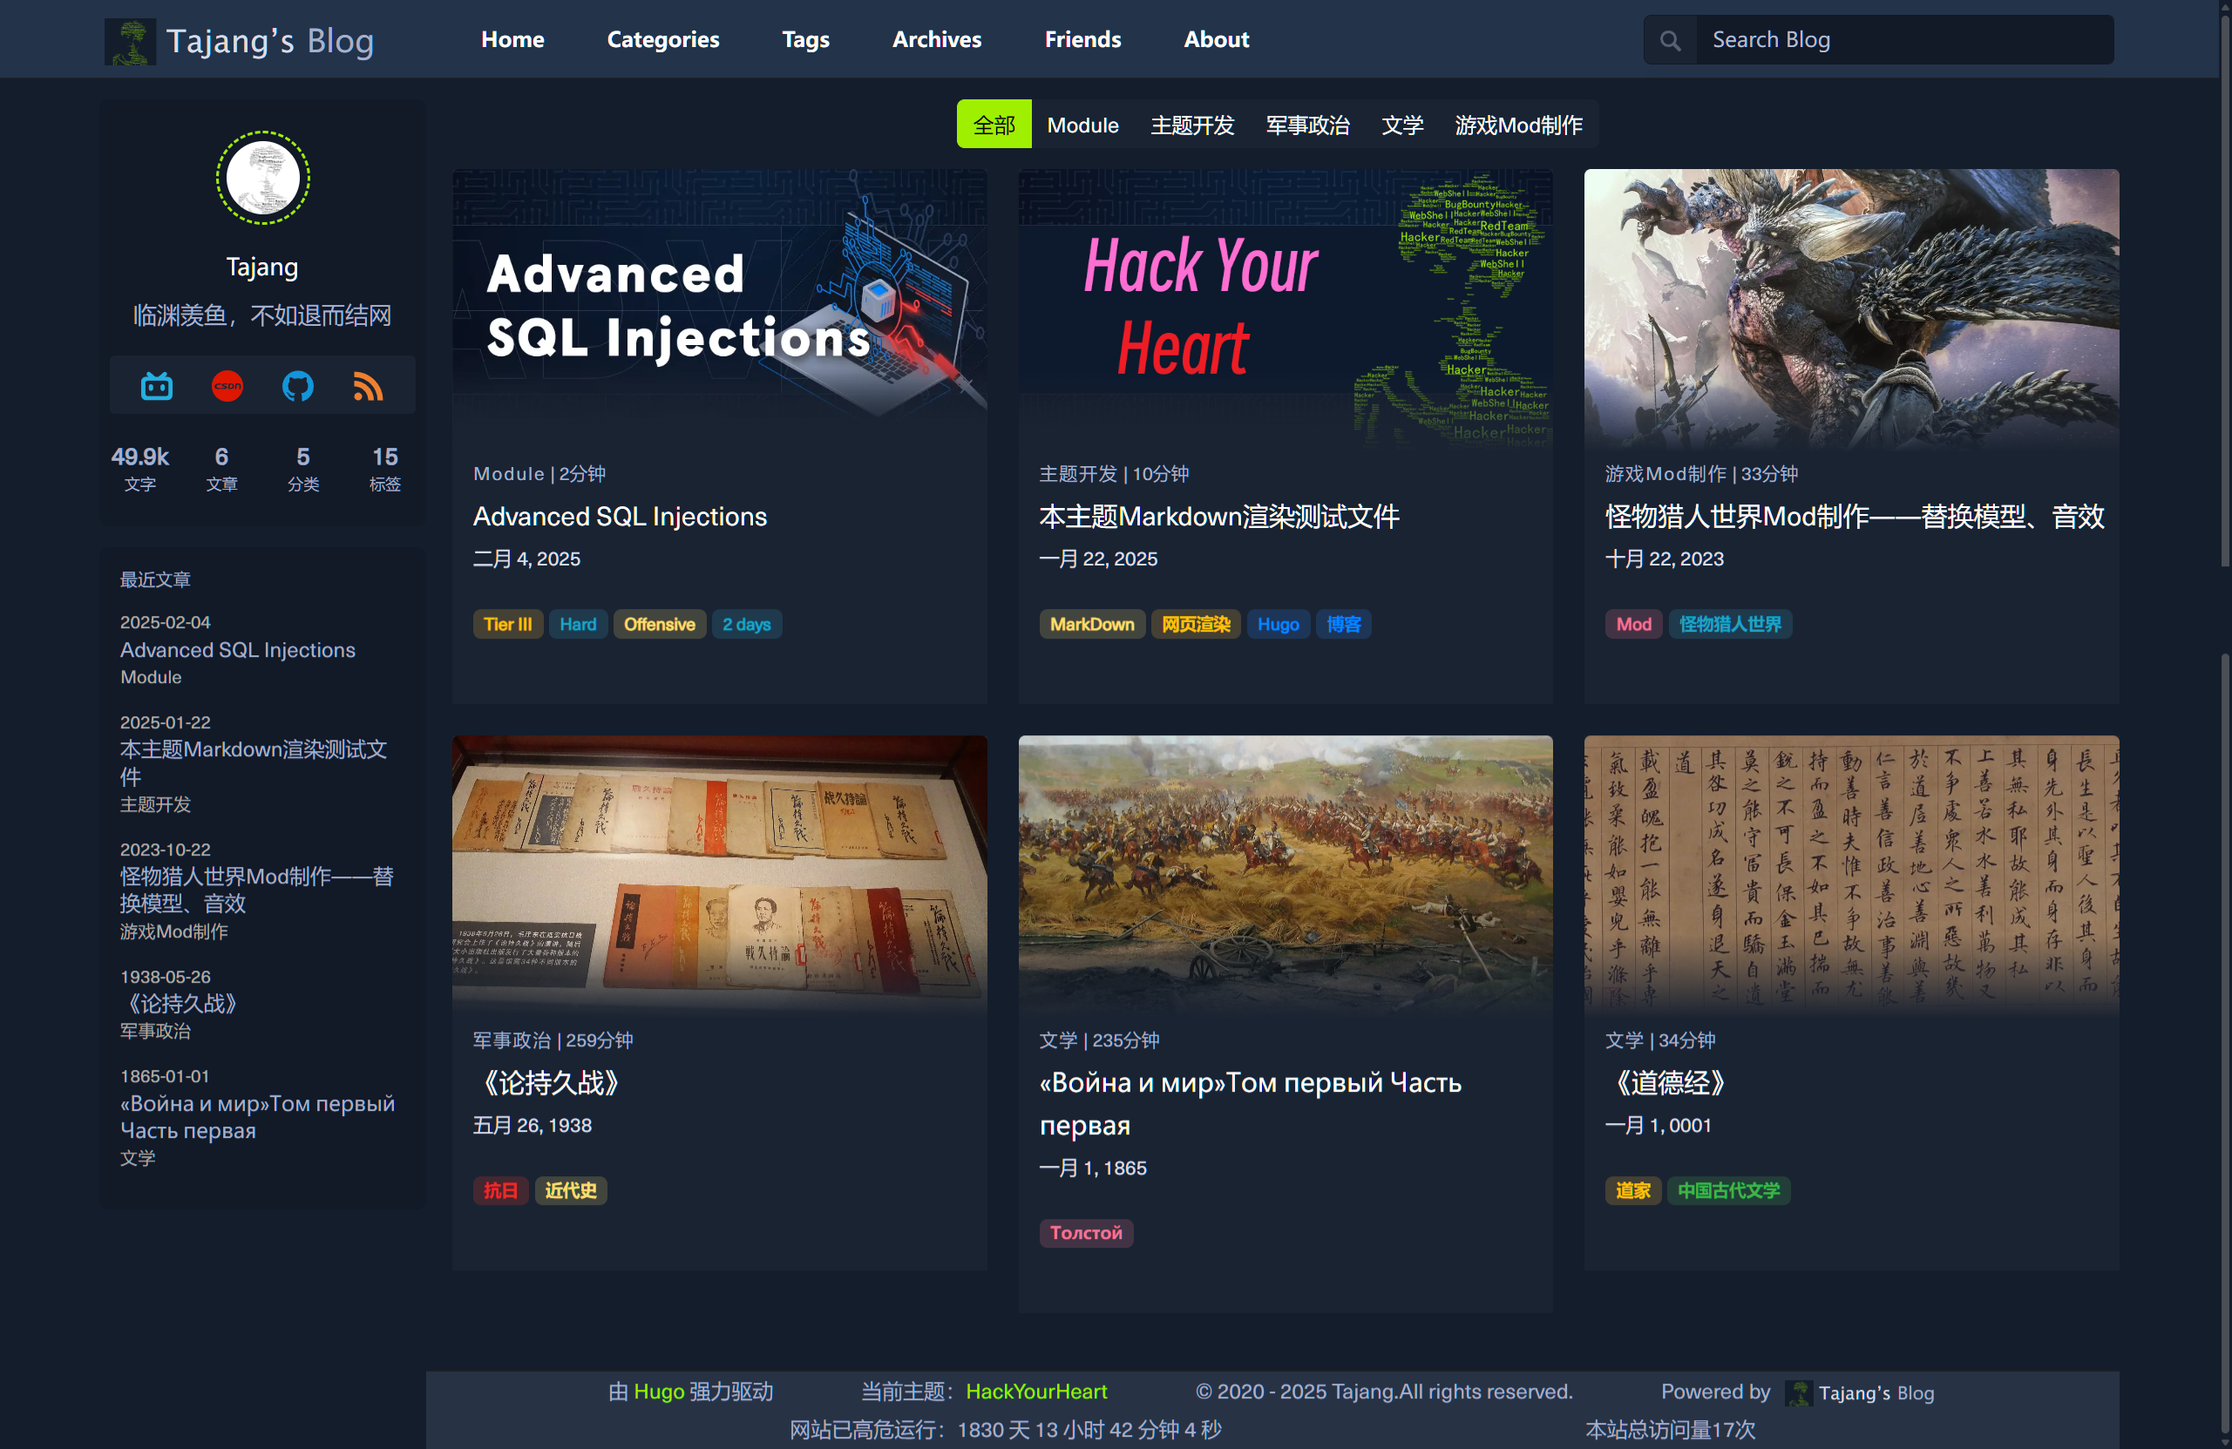
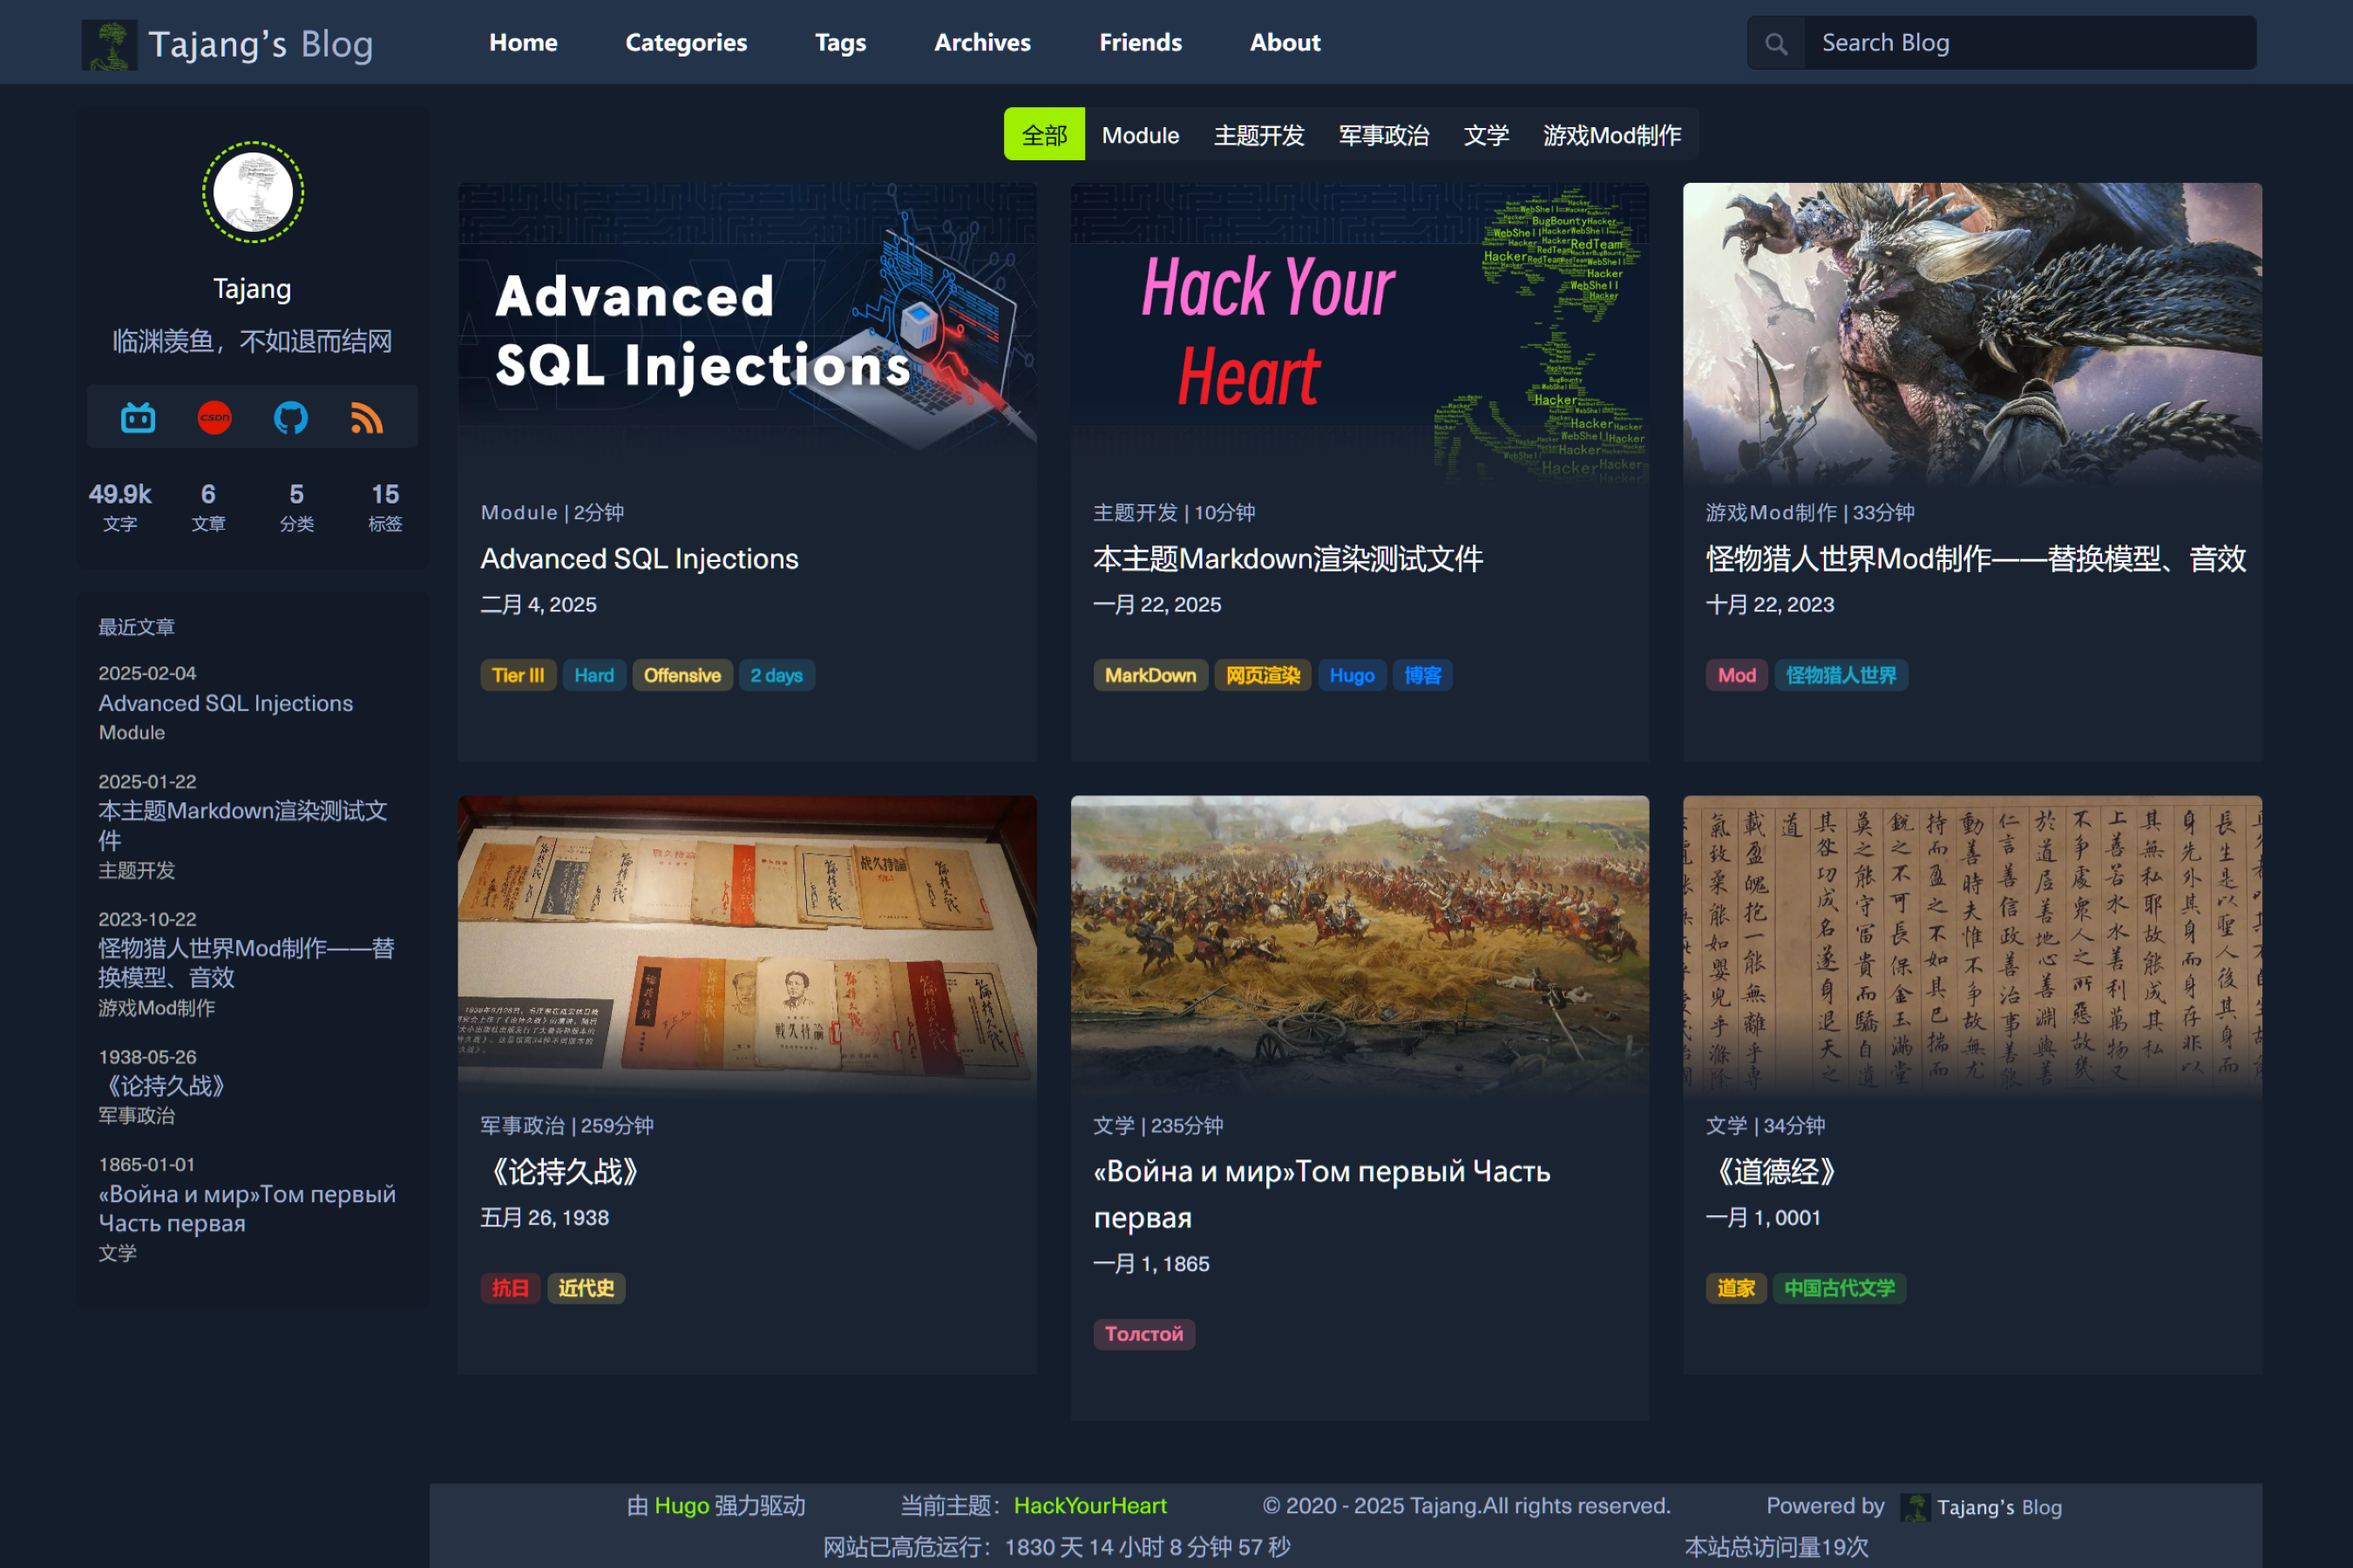
更新资源
更新截图为3:2，增加部分英文描述

diff --git a/README.md b/README.md
@@ -3,12 +3,30 @@
 > 主题于2025年1月中旬开发，于2月完成。在2025/12/31公开，之前一直是个人在使用。
 >
 > QQ群：732044065
+>
+> 
+>
+> English: 
+>
+> The theme was developed in mid-January 2025 and completed in February. It was made public on 2025-12-31 and had been used exclusively by the individual developer prior to that date.
+>
+> QQ Group: 732044065
 
 写这个主题是因为我在Hugo的主题仓库里没有找到喜欢的主题。
 
-因为我是一个~~黑客~~脚本小子，我想要更有黑客风格的博客，但是没找到。于是想要自己写一个博客主题。
+因为我是一个 ~~黑客~~ 脚本小子，我想要更有黑客风格的博客，但是没找到。于是想要自己写一个博客主题。
 
 由于我不会前端，写这个主题十分困难，许多HTML、CSS、JS、F12花哨调试 工具都是我现学的。这个主题也是我边学边写。
+
+
+
+English:
+
+I’m writing about this topic because I couldn’t find a Hugo theme I really liked in the official Hugo theme repository.
+
+As a wannabe ~~hacker~~ script kiddie, I was looking for a blog theme with a more “hacker” vibe, but nothing quite fit my needs—so I decided to roll my own and write a custom blog theme from scratch.
+
+Since I have no prior experience with front-end development, building this theme was no small feat. I had to learn HTML, CSS, JavaScript, and advanced debugging techniques like those available via browser developer tools (e.g., F12) on the fly. In fact, I built this theme while simultaneously teaching myself these technologies.
 
 ## 特色
 
@@ -51,14 +69,6 @@ Hugo没有心目中的黑客主题，相近的大概是：[https://hackingcapita
 ### 标签/Tags：
 
 ![](https://blog-1307674006.cos.ap-shanghai.myqcloud.com/HackYourHeart/hyhtags.webp)
-
-这里你可以选择要不要和首页一样花哨的颜色（目前已取消彩色）：
-
-![](https://blog-1307674006.cos.ap-shanghai.myqcloud.com/HackYourHeart/hyhtags2.webp)
-
-或者数目那里保持对比颜色
-
-![](https://blog-1307674006.cos.ap-shanghai.myqcloud.com/HackYourHeart/hyhtags3.webp)
 
 ### 存档/Archives：
 
